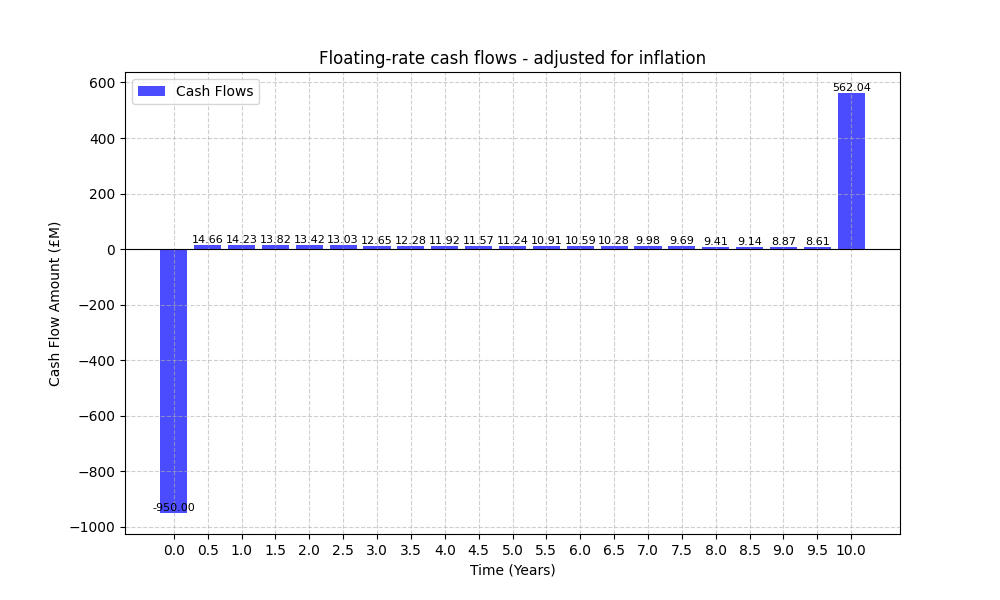
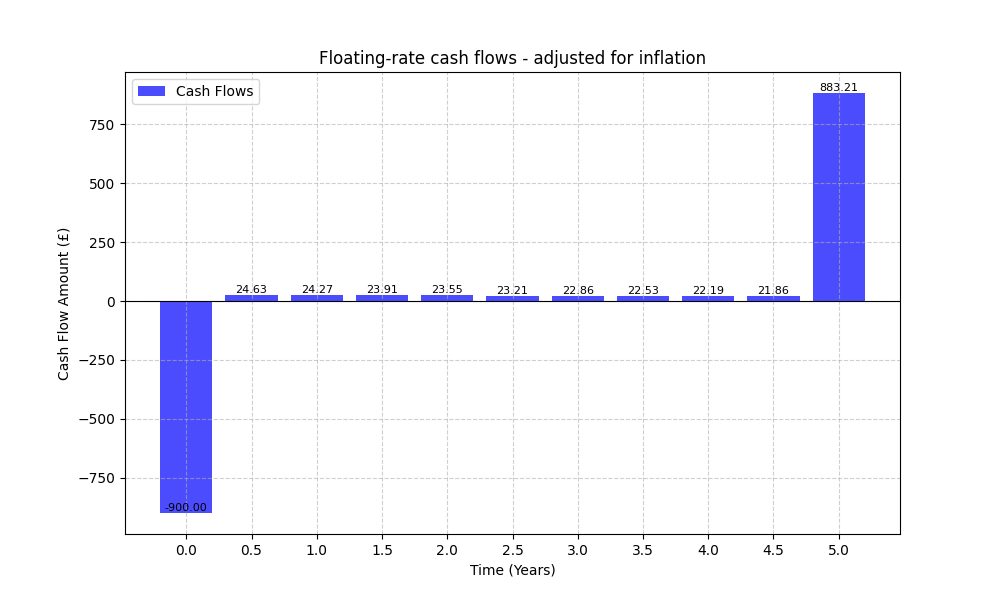
Fresh data

diff --git a/examples/constant_inflation_example.py b/examples/constant_inflation_example.py
@@ -2,7 +2,7 @@ from bonds.fixed_rate_bond import FixedRateBond
 from bonds.floating_rate_note import FloatingRateNote
 from bonds.zero_coupon_bond import ZeroCouponBond
 from bonds.partially_amortizing_bond import PartiallyAmortizingBond
-from inflation_models.vasicek_inflation_model import VasicekDiscountRateModel
+from inflation_models.constant_inflation_model import ConstantDiscountRateModel
 
 import os
 
@@ -14,20 +14,13 @@ table_filepath = "_data/csv/"
 os.makedirs(graph_filepath, exist_ok=True)
 os.makedirs(table_filepath, exist_ok=True)
 
-# Create a Vasicek inflation model
-inflation = VasicekDiscountRateModel(
-    a=0.1,  # Mean reversion speed
-    b=0.03,  # Long-term mean rate
-    sigma=0.02,  # Volatility
-    r0=0.02,  # Initial rate
-    max_time=10,  # Maximum simulation time in years
-    dt=0.25  # Quarterly time steps
-)
+# Create a constant inflation model
+inflation = ConstantDiscountRateModel(rate=0.03)
 
 # Common bond parameters
 face_value = 1000
-price = 950
-maturity = 10
+price = 900
+maturity = 5
 payment_frequency = 2  # Semi-annual
 
 # Fixed Rate Bond
@@ -64,7 +57,7 @@ floating_rate = FloatingRateNote(
     price=price,
     maturity=maturity,
     payment_frequency=payment_frequency,
-    spread_bps=0.02,  # Example spread of 2%
+    spread_bps=2,  # Example spread of 2%
     inflation_model=inflation
 )
 
@@ -79,12 +72,15 @@ partially_amortizing = PartiallyAmortizingBond(
     maturity=maturity,
     payment_frequency=payment_frequency,
     coupon_rate=0.05,  # 5% coupon rate
-    baloon_payment=500,  # Example baloon payment at the end
+    baloon_payment=500,  # Example balloon payment at the end
     inflation_model=inflation
 )
 
 partially_amortizing.plot_cash_flows("Partially amortizing cash flows - nominal", filepath=graph_filepath + "part_nominal")
 partially_amortizing.plot_cash_flows("Partially amortizing cash flows - adjusted for inflation", filepath=graph_filepath + "part_inflation_adjusted", inflation_adjusted=True)
 partially_amortizing.table_cash_flows().to_csv(table_filepath + "part_coninfl.csv", index=False)
+
+for bond in [fix_rate, zero_coupon, floating_rate, partially_amortizing]:
+    print(f'{bond.__class__.__name__} : profit {round(bond.profit(),2)}, interest adjusted {round(bond.profit(present_value=True),2)}')
 
 print("All plots and tables have been generated successfully.")

diff --git a/examples/vasicek_inflation_example.py b/examples/vasicek_inflation_example.py
@@ -2,7 +2,7 @@ from bonds.fixed_rate_bond import FixedRateBond
 from bonds.floating_rate_note import FloatingRateNote
 from bonds.zero_coupon_bond import ZeroCouponBond
 from bonds.partially_amortizing_bond import PartiallyAmortizingBond
-from inflation_models.constant_inflation_model import ConstantDiscountRateModel
+from inflation_models.vasicek_inflation_model import VasicekDiscountRateModel
 
 import os
 
@@ -14,13 +14,20 @@ table_filepath = "_data/csv/"
 os.makedirs(graph_filepath, exist_ok=True)
 os.makedirs(table_filepath, exist_ok=True)
 
-# Create a constant inflation model
-inflation = ConstantDiscountRateModel(rate=0.03)
+# Create a Vasicek inflation model
+inflation = VasicekDiscountRateModel(
+    a=0.1,  # Mean reversion speed
+    b=0.03,  # Long-term mean rate
+    sigma=0.01,  # Volatility
+    r0=0.02,  # Initial rate
+    max_time=10,  # Maximum simulation time in years
+    dt=0.25  # Quarterly time steps
+)
 
 # Common bond parameters
 face_value = 1000
-price = 950
-maturity = 10
+price = 900
+maturity = 5
 payment_frequency = 2  # Semi-annual
 
 # Fixed Rate Bond
@@ -57,7 +64,7 @@ floating_rate = FloatingRateNote(
     price=price,
     maturity=maturity,
     payment_frequency=payment_frequency,
-    spread_bps=0.02,  # Example spread of 2%
+    spread_bps=2,  # Example spread of 2%
     inflation_model=inflation
 )
 
@@ -72,12 +79,15 @@ partially_amortizing = PartiallyAmortizingBond(
     maturity=maturity,
     payment_frequency=payment_frequency,
     coupon_rate=0.05,  # 5% coupon rate
-    baloon_payment=500,  # Example balloon payment at the end
+    baloon_payment=500,  # Example baloon payment at the end
     inflation_model=inflation
 )
 
 partially_amortizing.plot_cash_flows("Partially amortizing cash flows - nominal", filepath=graph_filepath + "part_nominal")
 partially_amortizing.plot_cash_flows("Partially amortizing cash flows - adjusted for inflation", filepath=graph_filepath + "part_inflation_adjusted", inflation_adjusted=True)
 partially_amortizing.table_cash_flows().to_csv(table_filepath + "part_coninfl.csv", index=False)
+
+for bond in [fix_rate, zero_coupon, floating_rate, partially_amortizing]:
+    print(f'{bond.__class__.__name__} : profit {round(bond.profit(),2)}, interest adjusted {round(bond.profit(present_value=True),2)}')
 
 print("All plots and tables have been generated successfully.")

diff --git a/bonds/base_bond.py b/bonds/base_bond.py
@@ -41,11 +41,12 @@ class Bond:
         cash_flows = self.calculate_cash_flows()
         times = [time for time, _ in cash_flows]  # Extract times from cash flows
         discount_rates = self.inflation_model.get_discount_rates(times)  # Get discount rates for all times
+        period_rates = [dr / self.payment_frequency for dr in discount_rates]
 
         # Compute the cumulative discount factor over time
         cumulative_discount_factors = [1]  # Start with 1 for time = 0
-        for i in range(1, len(discount_rates)):
-            cumulative_discount_factors.append(cumulative_discount_factors[-1] * (1 + discount_rates[i]) ** -1)
+        for i in range(1, len(period_rates)):
+            cumulative_discount_factors.append(cumulative_discount_factors[-1] * (1 + period_rates[i]) ** -1)
 
         # Apply discounting correctly
         present_values = [
@@ -54,7 +55,14 @@ class Bond:
         ]
 
         return present_values
-
+    
+    def profit(self, present_value=False):
+        """
+        Returns the net profit of the bond investment as float
+        """
+        if present_value:
+            return sum([cf[1] for cf in self.calculate_pv_of_cash_flows()])
+        return sum([cf[1] for cf in self.calculate_cash_flows()])
     
     def plot_cash_flows(bond, title="Cash Flows", filepath="_data/graphs/", inflation_adjusted=False):
         """
@@ -92,7 +100,7 @@ class Bond:
 
         ax1.axhline(0, color='black', linewidth=0.8)
         ax1.set_xlabel("Time (Years)", fontsize=10)
-        ax1.set_ylabel("Cash Flow Amount (£M)", fontsize=10)
+        ax1.set_ylabel("Cash Flow Amount (£)", fontsize=10)
         ax1.grid(True, linestyle='--', alpha=0.6)
         ax1.set_xticks(times)
         ax1.set_title(title, fontsize=12)
@@ -156,3 +164,7 @@ class Bond:
         df = pd.DataFrame(data)
 
         return df
+    
+    def __str__(self):
+
+        return f"{self.__class__.__name__}\nFV%-12i\nMAT%-12i" % (self.face_value, self.maturity)

diff --git a/examples/linear_inflation_example.py b/examples/linear_inflation_example.py
@@ -19,8 +19,8 @@ inflation = LinearInflationModel(initial_rate=0.02, rate_change_per_year=0.005)
 
 # Common bond parameters
 face_value = 1000
-price = 950
-maturity = 10
+price = 900
+maturity = 5
 payment_frequency = 2  # Semi-annual
 
 # Fixed Rate Bond
@@ -57,7 +57,7 @@ floating_rate = FloatingRateNote(
     price=price,
     maturity=maturity,
     payment_frequency=payment_frequency,
-    spread_bps=0.02,  # Example spread of 2%
+    spread_bps=2,  # Example spread of 2%
     inflation_model=inflation
 )
 
@@ -79,5 +79,8 @@ partially_amortizing = PartiallyAmortizingBond(
 partially_amortizing.plot_cash_flows("Partially amortizing cash flows - nominal", filepath=graph_filepath + "part_nominal")
 partially_amortizing.plot_cash_flows("Partially amortizing cash flows - adjusted for inflation", filepath=graph_filepath + "part_inflation_adjusted", inflation_adjusted=True)
 partially_amortizing.table_cash_flows().to_csv(table_filepath + "part_coninfl.csv", index=False)
+
+for bond in [fix_rate, zero_coupon, floating_rate, partially_amortizing]:
+    print(f'{bond.__class__.__name__} : profit {round(bond.profit(),2)}, interest adjusted {round(bond.profit(present_value=True),2)}')
 
 print("All plots and tables have been generated successfully.")

diff --git a/main.py b/main.py
@@ -1,0 +1,37 @@
+# Floating Rate Note
+from bonds.floating_rate_note import FloatingRateNote
+from inflation_models.constant_inflation_model import ConstantDiscountRateModel
+
+
+import os
+
+# Filepath settings
+graph_filepath = "_data/graph/"
+table_filepath = "_data/csv/"
+
+# Ensure directories exist
+os.makedirs(graph_filepath, exist_ok=True)
+os.makedirs(table_filepath, exist_ok=True)
+
+
+# Create a constant inflation model
+inflation = ConstantDiscountRateModel(rate=0.03)
+
+# Common bond parameters
+face_value = 1000
+price = 900
+maturity = 5
+payment_frequency = 2  # Semi-annual
+
+floating_rate = FloatingRateNote(
+    face_value=face_value,
+    price=price,
+    maturity=maturity,
+    payment_frequency=payment_frequency,
+    spread_bps=2,  # Example spread of 2%
+    inflation_model=inflation
+)
+
+floating_rate.plot_cash_flows("Floating-rate cash flows - nominal", filepath=graph_filepath + "float_nominal")
+floating_rate.plot_cash_flows("Floating-rate cash flows - adjusted for inflation", filepath=graph_filepath + "float_inflation_adjusted", inflation_adjusted=True)
+floating_rate.table_cash_flows().to_csv(table_filepath + "float_coninfl.csv", index=False)

diff --git a/bonds/zero_coupon_bond.py b/bonds/zero_coupon_bond.py
@@ -43,7 +43,7 @@ class ZeroCouponBond(Bond):
         phantom_payments = []
         n_periods = int(self.maturity * self.payment_frequency)
         
-        for t in range(1, n_periods):
+        for t in range(1, n_periods+1):
             cash_flow = self.ytm * self.price * (1 + self.ytm) ** (t - 1)
             phantom_payments.append((t / self.payment_frequency, cash_flow))
 
@@ -113,7 +113,7 @@ class ZeroCouponBond(Bond):
 
         ax1.axhline(0, color='black', linewidth=0.8)
         ax1.set_xlabel("Time (Years)", fontsize=10)
-        ax1.set_ylabel("Cash Flow Amount (£M)", fontsize=10)
+        ax1.set_ylabel("Cash Flow Amount (£)", fontsize=10)
         ax1.grid(True, linestyle='--', alpha=0.6)
         ax1.set_xticks(times)
         ax1.set_title(title, fontsize=12)
